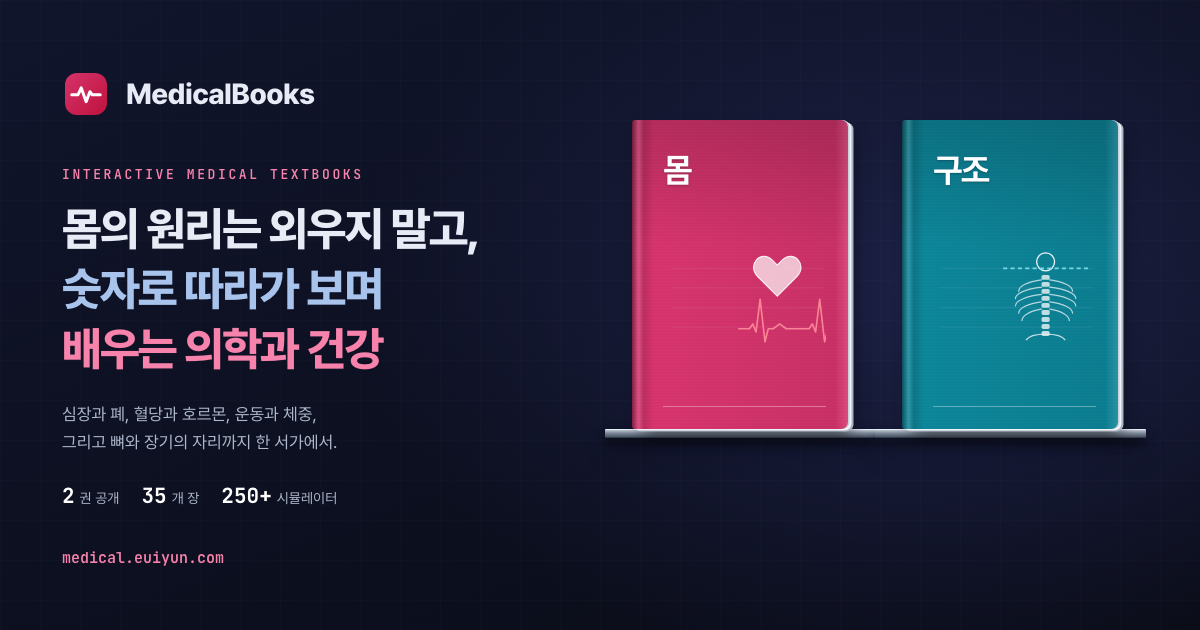
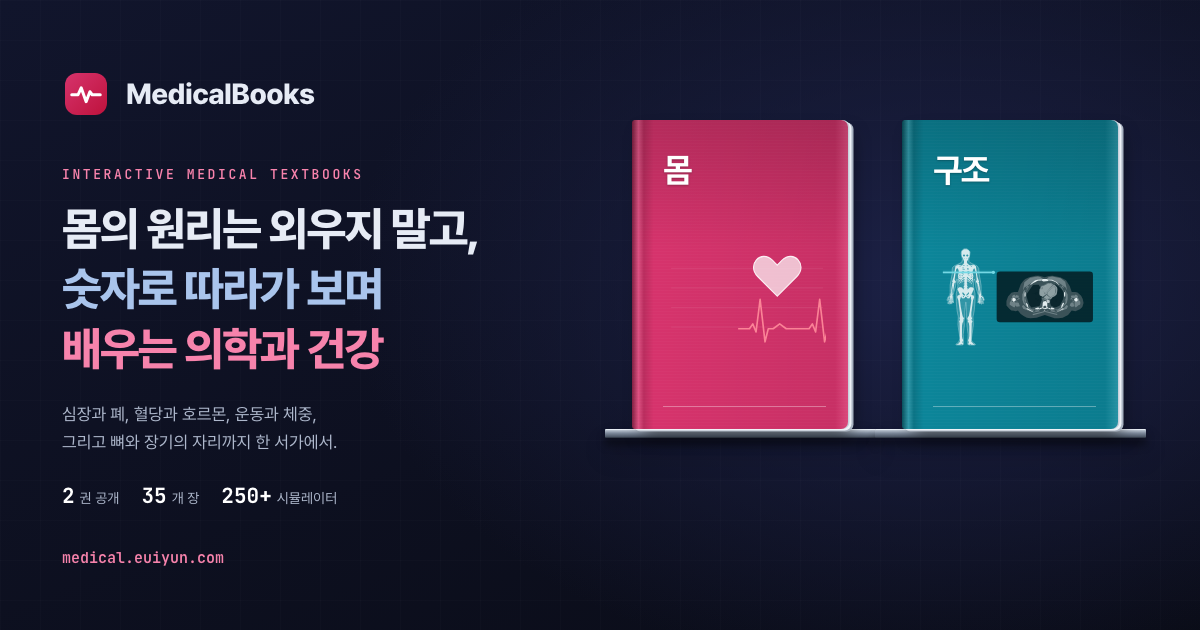
AnatomyBook: an X-ray figure and a CT scan on the cover
The skeleton cover was a spine with a few ribs and read as a fish bone.
It now draws a front-view person from the book's BodyParts3D data: the
skin outline and the skeleton, with eye sockets cut into the skull. A
scan line stops at six heights (brain, heart and lungs, liver and
kidneys, pelvis, thigh, calf) and the CT panel beside it shows the real
axial section at that height in CT grays, as in the CT viewer
experiment. One loop takes 12 s; the still frame is the chest.

- tools/anatomy-cover.mjs simplifies the outlines and sections onto a
  0.5-unit grid and rewrites the ANATOMY line in shared/js/covers.js
  (12.8 KB).
- .an-scan and .an-slice share one clock in cover-animations.css;
  .cv-section, used only by the old cover, is gone.
- og.png regenerated; README and LICENSE note the tool and the data.

Changed region(s): [[0.7708, 0.3921, 0.925, 0.5429]]

diff --git a/shared/js/covers.js b/shared/js/covers.js
@@ -725,15 +725,23 @@
       s += `<path class="cv-hit" d="M140 64 116 40c-14-14 4-34 18-20l6 6 6-6c14-14 32 6 18 20Z" fill="${W}" fill-opacity=".75" stroke="${W}" stroke-width="1.4"/>`;
       return svg(s);
     },
-    // 척주와 갈비뼈, 가로로 지나가는 단면선이 위아래로 훑는다
+    // 엑스선으로 본 사람(앞모습)과 CT 화면(AnatomyBook). 가로 단면선이 머리·가슴·배·골반·허벅지·종아리 여섯 높이에 차례로 머물고,
+    // 오른쪽 화면에는 그 높이의 실제 가로 단면이 CT 밝기로 뜬다(몸의 오른쪽이 화면 왼쪽, 앞이 위). 멈춰 있을 때는 가슴(심장과 폐)이고,
+    // 움직임도 가슴에서 시작한다(--k: 가슴에서 몇 칸째인가, 시간은 css의 .an-*가 정한다).
+    // 몸·뼈·단면 좌표는 tools/anatomy-cover.mjs가 BodyParts3D(© DBCLS, CC BY 4.0)에서 만든 ANATOMY(이 파일 맨 아래)다.
     skeleton() {
-      let s = "";
-      range(4).forEach((k) => { s += `<path d="M10 ${30 + k * 24}H196" stroke="${W}" stroke-opacity=".1"/>`; });
-      s += `<circle cx="138" cy="22" r="11" fill="none" stroke="${W}" stroke-width="1.6"/>`;
-      range(9).forEach((k) => { const y = 38 + k * 8.6; s += `<rect x="133" y="${y}" width="10" height="6" rx="2" fill="${W}" fill-opacity=".8"/>`; });
-      range(5).forEach((k) => { const y = 44 + k * 9, w = 34 - Math.abs(k - 1.5) * 4; s += `<path d="M133 ${y}c-${w * 0.6} 2-${w} 8-${w} 14M143 ${y}c${w * 0.6} 2 ${w} 8 ${w} 14" fill="none" stroke="${W}" stroke-opacity=".75" stroke-width="1.5" stroke-linecap="round"/>`; });
-      s += `<path d="M114 118c6-10 42-10 48 0" fill="none" stroke="${W}" stroke-opacity=".8" stroke-width="1.6"/>`;
-      s += `<g class="cv-section" style="--dy:76px"><path d="M86 30H190" stroke="#7ee0ec" stroke-width="2" stroke-dasharray="5 4"/></g>`;
+      const A = ANATOMY, rest = 1, [px, py, pw, ph] = A.panel, y = A.slices[rest].y, scan = "#7ee0ec";
+      const ct = (v) => "#" + [3, 24, 30].map((c) => Math.round(c + (255 - c) * v).toString(16).padStart(2, "0")).join(""); // 검은 화면 → 흰 뼈
+      let s = `<rect x="${px}" y="${py}" width="${pw}" height="${ph}" rx="4" fill="${ct(0)}" fill-opacity=".9"/>`;
+      s += `<g transform="scale(${A.q})"><path d="${A.skin}" fill="${W}" fill-opacity=".16" stroke="${W}" stroke-opacity=".55" stroke-width="${0.7 / A.q}"/><path d="${A.bones}" fill="${W}" fill-opacity=".88"/>`;
+      A.slices.forEach((sl, k) => {
+        s += `<g class="an-slice" style="--k:${k - rest}"${k === rest ? "" : ' opacity="0"'}>`;
+        s += sl.layers.map(([v, d]) => `<path d="${d}" fill="${ct(v)}" fill-rule="evenodd"/>`).join("") + "</g>";
+      });
+      s += "</g>";
+      const to = A.slices.map((sl, k) => `;--y${k}:${(sl.y - y).toFixed(1)}px`).join("");
+      s += `<g class="an-scan" style="--k:${-rest}${to}"><path d="M${A.fig[0] - 5} ${y}H${px - 4}" stroke="${scan}" stroke-opacity=".3" stroke-width="4"/>`;
+      s += `<path d="M${A.fig[0] - 5} ${y}H${px - 4}" stroke="${scan}" stroke-width="1.3"/><circle cx="${px - 4}" cy="${y}" r="2" fill="${scan}"/></g>`;
       return svg(s);
     },
     // 오선과 음표, 아래에서 스펙트럼 막대가 출렁인다
@@ -1279,6 +1287,10 @@
     },
   };
   Object.assign(M, CONSTRUCTION);
+
+  // skeleton 표지의 몸·뼈·CT 단면 좌표. node tools/anatomy-cover.mjs가 이 줄을 다시 쓴다(직접 고치지 않음).
+  // Data: BodyParts3D, © The Database Center for Life Science, CC BY 4.0.
+  const ANATOMY = {"q":0.5,"fig":[17.1,62.9],"panel":[78,34,118,62],"skin":"M34 138l3-8 4-5 1-6 0-18 5-28 0-11 1-4 4-4 15-7 4-3 1-6-3-15 1-5 2-3 4-3 7 0 5 4 3 4-1 7-2 11 0 5 2 2 5 3 13 6 4 6 1 13 5 29 0 16 1 7 4 5 3 8-2 1-2-3 2 10-1 1-2-1-2-6 0 8-2-1-1-6-1 4 0 2-2-1-1-6-1 5-1-1 1-18-6-20-1-13-3-7-2 17 4 19 0 19-2 23-3 15 1 20-5 35 1 4 4 5 4 2 1 2-2 1-13 0-4-2 1-24-3-24 1-9-2-9 0-14-1-23-1 0-2 23 0 13-2 10 1 10-3 23 1 24-1 1-3 1-13 0-2-1 1-2 4-2 3-5 2-7-5-33 1-19-3-15-2-23 0-19 4-19-2-17-2 7-2 12-6 21 1 18-1 1-1-5-1 6-2 1 0-2-1-4-1 6-2 1 0-8-2 6-2 1-1-1 2-10-3 3z","bones":"M70 26l0-7 2-3 4-3 7 0 5 3 2 3 0 7-1 6-2 2-1 5-1 2-3 1-4 0-3-1-2-7-2-2zM76 36l2 2 4 0 3-4-2 2zM72 117l0-5 1-2 3 2 0-2-3-3 3 1 1-2-3-2 2 0 1-2-2-1 0-1 2 0 0-3-3 0 3-1 0-2-2-1 2-1 0-6-1-1 2-1-1-2-1 0 1-4-2-1 3-1-1-2-1 0 0-1 2-1-1-2-2 0 2-1 1-2-3-1 0-2 3 0 0-1-3-2 3-1-3-3 3 0-2-2 0-1 2 0-1-1-2-1 2-2-2-1 1-3 0-6 1-3 1-1-4-1 4-1 5 0 3 2-4 0 2 4-1 5 2 4-2 2 2 0 0 1-3 2 2 0 0 1-2 2 2 0 1 1-2 1-1 1 3 1 0 1-3 1 0 1 3 0 0 2-2 0-1 2 3 1 0 1-2 0-1 2 2 1 0 1-1 0-1 2 3 1-2 1 1 4-1 1 1 2-1 0 0 7 2 0 0 1-2 1 0 2 2 1-2 1 0 2 2 0 0 1-2 1 1 2 2 0-3 2 1 2 3-1-3 3 0 2 2-2 1 1 1 5-4 7-3 2 1 2-2 3-2-3 1-2zM61 80l2-11 2-9 4-6 6-5 3 1 0 1-2 0 2 1 0 1-5 0 0 1 4 0 3 2 2-1 0-1 4 0 0-1-4 0 0-1 2-1-2 0 0-1 3-1 8 6 4 13 2 12-1 3 0 4-2 10 0-4-13-13-2-3-1 0-1-1-2 4-13 13 0 4-1-2-1-12zM97 81l0-2-1 1zM97 84l-1 1 1 1zM97 75l0-2-1 1zM94 86l-2 0 4 5 1-1-2 0 1-3zM96 68l-1-1-1 1 2 2zM92 76l2 1 2 0-2-2zM91 70l3 2 1-1-2-2zM92 81l2 2 1-1-1-2zM90 66l2 1 2-1-2-1zM93 60l0-2-1 1zM91 60l-2 2 2 0 2-1zM88 76l-4-3 3 4 4 1zM83 70l4 4 4 0zM88 57l2 1 1-1-2-1zM83 67l3 2 4-1-3-1zM84 63l-1 0 2 1 4 0-3-1zM84 59l-1 1 2 1 4-2-3 0zM82 56l1 1 3-1zM74 56l2 1 2-1zM71 64l7 0 0-1-4 0zM70 68l4 1 3-2-4 0zM73 71l-4 3 6-2 2-2zM71 59l3 1 3 0-3-2zM69 78l3 0 5-5zM69 83l3-1 1-2zM69 57l1 1 2-1-1-1zM66 66l2 1 2-1-2-1zM69 62l1 0-1-2-2 1zM65 71l1 1 3-2-2-1zM65 90l-2-1 1 2 4-5-3 0-1 1zM64 77l2 1 2-2-2-1zM67 60l1-1-1-1zM65 82l1 1 2-2-2-1zM63 86l1-1-1-1zM63 79l0 2 1-1zM82 85l1-2 1 1 5 4 5 7 1 3-1 1-2-5zM82 88l6 4 4 6-5-5-4-3zM65 98l1-3 4-7 7-5 1 2-6 4-6 8 0 2zM68 98l4-6 6-4-1 2-4 3zM36 138l2-7 5-4-1-1 2-7 3-21 0-2 3 0-2-1-1-3 4-12 4-26 2 0 1-2 2 1 0-1 1-1 5 1 5 2 7 0 1 2-1 2-7-2 1 3 0 6-2 5-3 5-2-2-3-10-2-3-1 0-2 2-2 11-2 15 3 5-1 2-2 0-1 4-4 26-1 2 1 1 0 1 1 8 1 7-2-3-1-10-1 15-1-1 0-14-3 17-1-2 2-15-2 8-3 7-1 0 1-1 4-15-3 2-2 5-1 2zM61 53l4 1 1 2 2-1-1-1zM46 125l2-6 1-17-3 15zM81 56l1-2 7 0 8-3 3 0-1 2 1-1 2 0 1 2 2 0 4 27 4 12-1 2-2 1 3 0 0 3 5 27-1 0 6 5 2 7-2-1-3-6-2-1 0 2 5 14-4-7-2-8 1 17-2-9-1-8 0 15-1-1-1-2 0-12-2 12-1 1 1-7 2-8-1-1 1-1-1-2-3-26-2-4-2-2 2-5-2-17-3-10-1-1-2 2-4 11-2 2-2-3-2-6-1-7 1-3-4 0-3 2zM114 125l0-9-2-14 0 16zM94 54l-2 0 2 2 2-2 3-1zM80 128l1-1 3-1 4-4 0-3-2 0 0-3-1-2 3-6 3-2 3 0 4 1 2 3 0 1-5 11-4 6-1 5-5 1-3-3zM84 129l0 1 2 1 1-4zM60 111l2-3 2-2 5 0 3 2 3 6-1 2 0 3-2 0 0 3 3 4 5 1-1 3-2 3-4 1-3-2-1-4-4-6zM73 128l1 3 2-1-1-2-2-1zM57 247l5-2 4-5-1-47-1-3 2-4-1-3 1-5 0-9-4-31-3-8 2-4 3 0 2-3 2 0 3 1 0 2-3 5-1 4-1 2 2 17 4 20 1 4 3 4-1 3-1 2 1 1-3 7-1 7 0 25 1 5 2 4-2 5 2 4-1 1-1 1-2-1-1-1-1 1-1 1zM84 182l4-6 2-10 4-29-1-1 0-5-4-5 1-2 3-1 1 1 2 2 3 0 2 4-3 9-4 30 0 9 2 5-2 3 3 4-2 4-1 42 0 4 5 5 4 2-9 0-2-1 0-1-2 2-4-1 1-3 1-2-2-5 2-4 1-6 0-24-1-7-3-6 2-2-2-1zM78 27l-1-1-2 0-1 1-1 2 1 1 1 1 2 0 1-1 1-1zM86 27l-1-1-2 0-1 1-1 2 1 1 1 1 2 0 1-1 1-1z","slices":[{"z":1560,"y":11.6,"layers":[[0.24,"M260 96l-6 6-3 5-7 26-1 11 3 11 7 12 7 5 10 3 18-2 6-4 5-8 4-6 2-11-2-16-6-21-6-9-9-4-15-1z"],[0.96,"M264 97l-4 1-3 3-6 10 0 4-5 12-2 15 3 12 4 7 5 6 3 3 2-1-1 2 14 1 13-1 1 0 0-1 1 1 2-2 7-9 5-15 1-4-1-6-5-19 0-6-8-10-4-3-8-2zM261 169l-7-7-4-7-4-9-1-10 4-14 2-5 2-1 0-6 2-4 5-5 7-4 4 0 3 2 4-2 5 1 6 3 7 8-1 6 1 2 1-1 0 1 2 5 1 6 3 7 0 5-2 8-3 8-4 6-6 7-4 1-14 0-7 1-1-1-1 0 1 0-1-1 0 1z"],[0.5,"M265 103l6-2 1 1-2 3 2 2-4 1 2-3 0-2-6 8-1 4-2 0-2-5 3-1-3 0 0-3 1 0-4 1-2 5-1 9 3 1 4-3-3 3 0 4 1 8 2 3 1-15 2-2-1-2 4 1 5-5-3-2 1-4 0 2 4-1-1-9-4-1zM257 113l2 4-2-2-1 1 1-6zM269 110l3 5 0-5zM271 122l1 4 2-7-6-3zM266 122l1 5-5 10-1-4-1 6-5-10-3-1 1 2-2 3 1 4-2 1 2 2-2 2 7 2 1 2-5 2 6 3-10-2 0 2 9 13 4 2 0-3 1 2 5 0-1 2 1 2 6-4-1-16-9 2-2-3 0-4 5-13 3-3-4-10zM257 154l0 2 2 0-1 5 2 2-2-2 0-4-4-2 2-2-3-1 6 0zM261 157l4 4 2-2 2 2-1-1-3 3zM272 157l-3 3-4-3 1-2 2 3zM275 134l0-4-2 0 0 3zM264 142l1 3 2 0 3-3 0-3zM276 100l0 15 4-6-2 5 2 0 2 5-4 8 4 4 4 13-2 6-9-1 0 17 5 3 3-1-1-2 3-1 1-3 1 4 5-4 8-12-11 1 6-4-4-1 0-2 7-2-2-2 2-1-3-9 1-2-3 0-4 10-2 0 0-3 1 2 2-1 2-6-1-8-3-3 6 3 2-2-4-13-4-1 1 3-3 0 3 1-2 5-2 0 0-4-5-7-2-2 0 3-2-3 4-1 3 2-2-4zM286 136l-4-13 0-4 4-2 1 0-2 3 3 6-1 8 0-2zM291 113l0-3 1 6-1-1-2 2zM280 107l-4 0 2-2zM281 158l-1 1 2 2-3-1-2-3zM289 159l0-3 2-2-2-3 8 1-5 1 2 2-5 2 2 4zM275 119l1 7 4-10zM278 141l4 4 2-1-3-5-3 0z"],[0.34,"M279 116l-4 3 0 7 5-10zM268 116l5 10 1-6-3-4zM273 130l0 4 2 0 0-4zM271 139l-4 0-3 3 1 3 5-3zM278 139l1 4 4 2 1-3-3-3z"]]},{"z":1220,"y":34.9,"layers":[[0.24,"M180 140l0 11 7 8 5 4 6 1 5 1 5-2 7 9 7 5 8 4 9 1 15-1 20-7 24 8 10 0 10-1 13-7 9-11 9 2 11-5 6-5 3-10-2-10-4-8-9-8-5-1-9 0-5-15-9-14-14-7-19-4-9 1-10 3-14-4-9 0-15 4-10 4-5 5-6 8-7 19-9 0-7 2-8 9z"],[0.03,"M300 99l-4 4-8 29-1 12 2 7 9 5 5-1 8-4 8-16 1-6 0-8-3-8-10-10zM253 100l-8 1-15 21-1 5 4 15 3 7 5 7 20-4 9-24 0-3-7-18-4-7z"],[0.46,"M237 102l-5 6-5 12zM228 106l0 3 6-6-2-1zM231 107l-6 12 6-11 9-9zM220 115l4-8 23-15 13-2-10 3 12-3 8 2-8-3 10-1-8-6-7-2-19 3-14 11zM194 128l0 4-4 3 2 2-4 7 0 5 11 7 2-2 2-9-2-3-8 0 3-8-1-2 15 0 0-5-7-2 0 4-4-5zM204 138l4-1 2-4zM229 145l-3-16 0 11zM224 139l3 6-3-16zM201 140l7 1-3-2zM219 124l0 13 3 9 14 15-1 2-4-3-9-10-4 2 3 7 25 9 16-3-3-3-10 2 3 1-6 2-1-2 3-1-1-1-4 0 9-3-9 1-11-6-6-8-3-9 3-25-4 2zM205 154l8-1-3-9-5-1-2 2-1 6zM277 88l10 1-8 3 8-2 11 3-9-3 7 1 15 6 14 10 4 8-5-22-11-9-21-4-9 2zM278 163l3 1 3-2zM287 165l16 3 25-9 3-7-4-2-9 10-4 3-1-2 15-16 2-10 0-11-5-10-2-1 3 21-2 11-8 11 2-3-13 8-8-1 9 3-5 1 3 1-1 2-6-2 3-1-10-2zM270 166l-26 6 1 3 29-8 0-3-3 0zM278 165l-4-1 1 3 29 7 1-2zM311 102l11 18-6-14zM315 103l5 6 0-4-3-3zM345 129l0-3-7 1 1 5 8 1 8-1 0-4-5-4-5 4 1 3zM358 134l-5 0 3 8-2-2-7 2 0 11 3 3 8-7 2 1 1-4 0-4-5-6 2 2zM325 137l-1-7-1 11zM341 134l-2-1 1 3 5 2zM343 139l-2 1 2 2 5-1zM339 154l5 0 2-2-2-9-6 1-1 2-2 5z"],[0.96,"M251 89l1 1-1-1-3 2-6 5-4 5 1 0 8-6 6-2-1-2 1 1 5-2 7 0 1-1 2 2 3 1 11-1 1-2-1 0 1 0 8 1 10 4 8 7 1 0-6-7-12-6-9 0-5-2-8 0-3 1-1 1-1-1-9 1zM224 125l1 6 2-3 0-8-1-2-1 1zM194 138l3 4 5-2 1-4-1-2-5-2-2 2zM271 141l-2 3-1 12-6 1-2 2 0 1 1 1 7-3 6 2 8-2 5 3 2-1-3-3-3 0-3-2 0-11-2-2-2-2zM278 154l0 2-4 2-3-1-1-3 2-2 3-1zM227 145l3 8 4 4-2-9-4-4-1 0zM257 156l-6 2-1 2 8 1 2-2-1-3zM229 158l2 3 14 6 1 0-16-10zM273 162l1 3 1-3zM321 119l0 7 2 5 1-3 0-8-1-2zM351 132l-5 3 0 3 3 3 3 0 2-1 1-2-1-4zM318 145l-3 6-1 5 1 1 3-4 3-7 0-2zM288 158l2 3 8-1-1-2-6-2-1 0zM311 163l-8 4 15-6 2-1-1-3z"],[0.56,"M281 96l-13 7 0-1-1 0-6 9-1 10 1 4 2 2 6 0-3 5 1 0 4-5 9-4 1-5 16-13 2 1 2 4 0 5-1 5-5 6-6 3-2 3 0 3-19-1-2 0 0 2 23 0 3-4-1 0 8-4 4-4 1-4 1-9-1-5-3-3-2-2-3 0-7-5zM266 110l2-1 3-7 9-5 7 0 6 4 0 1-20 18 2 2-2 3-4 1-6 0-2-3 1-12 3-3z"],[0.6,"M282 97l-12 6-3 9-1-4-2 1-2 3-1 10 3 6 5 1 3-1 3-4-5-9 3 5 3-1 17-18-4-3zM296 105l-15 13-1 6 7 7 9-5 4-6 1-11-2-3zM278 125l-6 6 1 2 5 2 10-1-1-2-8-7z"],[0.8,"M210 134l-1 2 2 0 1-2zM338 134l-1 2 2 0 1-2zM279 136l-1 2 1 6 2 1 4 0 1-3 0-3z"],[0.7,"M270 139l-1 1 1 2 2-2z"],[0.02,"M253 118l1 3 2 1 0-4zM252 120l-9 3 7-1 3 2 1-1zM251 134l1 2 3 0-1-2zM255 138l2 2 2-1-1-3zM256 140l2-2-1-1 2 0-1 3zM307 121l2 1 1-2-2-1zM302 136l-1 2 2 0 2-1-2-2zM300 140l2 2 1-1 0-2z"],[0.45,"M275 134l-4 2 4 2 3 0 0-2z"]]},{"z":1060,"y":45.9,"layers":[[0.24,"M217 110l-2 12 3 10 5 12 7 12 7 7 6 4 6 2 13 0 14-4 8 4 12 0 11-3 9-7 8-12 9-24-2-12-12-17-16-10-12-5-18 1-14-1-11 3-17 10zM353 124l-5 3-4 5-2 6-1 6 2 6 5 6 6 3 6 0 5-1 5-5 7-9 1-4-4-9-5-6-7-2zM170 139l1 5 7 9 4 4 6 2 7 0 5-2 4-4 3-8 0-6-4-8-5-6-5-1-10 0-4 2-5 5z"],[0.46,"M233 97l-7 17 12-22zM253 81l-18 10-7 6-4 9-3 20 1 7 5 6-4-15 3-17 5-9 10-10 14-6 9-1 7 3-3-4zM230 110l-3 18 5 16-4-2 10 7-6-4 16 7 7-1 2-2-8 2-13-6-7-13 0-17 6-11 11-12-11 9zM225 121l0 10 3 6-1-17-1 4zM187 132l5 0-3-2zM183 134l4 4 10-3-1-3-13 0zM175 134l2 9 5 2-4-5 5-3-1-6-4-1zM193 142l-7 3 7 2-6-1 3 4 7-1 4-5-1-4zM281 124l1 7 4 6 1-6zM263 140l7-14-9 6zM259 153l-2 4 5 2-15 1-7-11 7 13 11 1 17-5 20 5 9-2 5-12-8 11-14-1 4-2-3-5 1-2-8 2-2 3 2 3-5-2-8 2 1-3-1-3-8-2-1 1 2 1zM316 98l6 16-4-13-7-9zM280 81l-2 3 11-3 13 4 16 14 7 15 0 16-3 9 5-5 1-9-3-19-5-9-24-16zM318 109l3 14-1 7-7 13-7 6-7 3-5-1 8 3-2-1 14-9 8-20-5-20-11-13zM322 126l-1 11 2-4 1-12-1 3-1-5zM359 132l-6 0-1 4 11 2 3-6-5 0 0-2-4 1 0 1zM367 130l-1 7 6 3-5 5 5-2 2-8-3-5zM317 146l3-4-5 3 4-3-12 7zM353 147l-3 0 2 2 4 2 5-5-6 1 8-2-14-5-2 5z"],[0.96,"M225 115l-1 5 1 2 2-2 2-6-3-2zM227 139l3 5 2 2-2-8-3-3zM190 138l-1-1-4 3-3-1-2 4 5 2 3-1 1-3 2-1 4 2 5-1 1-1 0-1-6-3zM268 144l0 3-2 0 2 0 2-4-1-1zM270 147l2 5 1 5 2 0 1-5 3-5-1-3-4 3-3-3zM257 150l-5 2 1 1 3 0 2-1 0-1zM240 151l5 4-1-3-5-3zM322 112l-2 2 2 6 2 2 0-7zM272 124l-4 4-2 3 2 7 2 2 1-2 4-1 4 3 3-7-1-5-6-4zM321 135l-5 9 0 2 6-7zM353 136l-6 3 1 2 5 1 4-2 4 4 3 1 5-3-2-3-4 0-2-1-4 0zM278 142l2 5 2 1-2-1 0-3-1-2zM307 149l-4 6 1 0 4-4 1-2zM291 153l4 1 2-2-6-2z"],[0.8,"M277 117l-3 3 0 3 3 1 3-1 2-2-2-3z"],[0.7,"M270 116l-3 2-1 2 1 2 2 2 3-1 1-3-1-3z"],[0.56,"M253 93l-7 2-7 6-6 10-2 8 1 8 4 10 4 5 3 0 2-9-2-6-1-18 3-3-1-1 2 0 3-6 6-5z"],[0.36,"M255 95l-5 4 0 7 2 3 3-2 4-8 0-3z"],[0.47,"M291 89l-13 2-7 2-8 12 3 4 3 0 3-4 11 2 11 6 11-3 3-5-2-6-7-7-3-2z"],[0.55,"M314 110l-1 1 0 10-6 7 4 12 7-7 1-5 0-6z"],[0.5,"M274 109l-8 4-4 6 13-3 3 1 10 7 7 2 4 0 0-2-7-3-9-9z"],[0.58,"M259 126l-6 1-5 4-2 3 1 3 5 0 6-4 3-5zM296 129l-8 3 0 2 2 4 4 3 6 1 4 0 3-2 2-4-3-4-4-3z"],[0.5,"M261 126l-3 0 1 6 3-3z"],[0.48,"M264 104l-13 13 0 3 4 3 4-1 10-13z"],[0.42,"M300 114l-1 5 4 4 3-3 0-3-3-3zM307 121l-3 3 4-1z"]]},{"z":880,"y":58.2,"layers":[[0.24,"M164 128l4 8 4 4 5 1 5 0 5-2 4-5 1-4-1-5-4-7-8-3-5 0-6 3-4 5zM369 115l-5 1-4 3-4 11 2 5 3 3 4 3 6 0 9-5 4-5 0-6-1-4-4-4-5-2zM228 98l-7 4-6 8-4 11 0 9 5 13 9 17 7 8 11 6 14 2 14-4 6 0 11 4 6 1 12-3 9-5 7-7 8-13 6-14 2-10-3-11-7-11-8-6-22-4-16-5-9 0z"],[0.46,"M176 118l-2 4 3 0 0 3 8 0 0-3-7-2 2-1 5 3 1-3-7-1 3-2-3 0-3 0 2 2zM215 126l8-13-6 2zM186 129l4-3-2-4zM180 127l0 3 3 0zM173 133l1 2 4-1-2-2 3-2-7 0zM181 131l1 3 3-1 0-4zM264 90l-30 11-8 6 9-6 27-9 10 3zM281 91l-4 3 11-2 34 15-6-5-29-12zM318 116l-8 5-5 15 7-4 13-17-3-2 1 2zM226 117l1-4-3 1zM238 133l6 2-1-5 2 5 5-1-3-11-5-1 0 5-5-8-11-4zM299 130l4 6 4-14-6 1zM317 132l-14 15 11 0-11 0-4 10 10 1 8-1 15-15 0-10-13-5zM222 129l-1 3-5 0-1 5 7 12 7 6 8 3 12-1-4-10-10 0 11 0-14-14-2-6zM245 168l14-4 3 3 6 2 4-7-4-1-2 1 4 1-3 2-3-1-4-1 1-3-3-2-4 4-10 1-17-9 3 6zM299 163l-8-5-3 2 1 3-4 1-6-1 3-1-2-1-3 2 5 6 6-2 1-4 14 5 15-8 4-6zM369 118l-6 2 2 2-1 3 10-2 0-3-4-2 2-2-5 0zM333 125l-1-10-6-2zM359 126l2 3 2 0-3-2 1-5zM372 125l6 2-4-4zM369 130l0-3-2 0-2 3zM376 130l-6 0 3 3-3 1 6 0-1-1 5-4zM364 133l4 0 0-2-5-2z"],[0.96,"M182 125l0 3 2 2 1-1 1-2-1-2zM363 127l2 3 2-2 0-2-3-1zM372 127l2 2 2 1 3-2-3-2zM170 127l1 2 1 1 4-3-4-1zM223 115l7 18 11 9 12 16 3 0 1-5 2 6 1 1 5-2 2-3 2 1 1 5 4 2 4-1 1-1 0-5 2 0 3 3 4 1 1 0 1-3 1-6 0-4 6-5-1-4-5 4-4 2-2 4-1 1-4 0-2-3-3-1-5 0-2 4-3 0-1 0-2-5-5-3-4-3-2 1 0 2 0-3-9-1-4-3-5-5-6-12-1-2zM257 149l-5-6 5 4zM323 115l-7 13-4 5-3 3-10 2-2 5-4 7 0 7 0 2 4-1 12-17 10-9 6-17z"],[0.48,"M278 97l-13 0-2 2 1 5-11-3-2 3 4 5 8-1 1-3 2 2 22-2 3-2 6 6 6 1 2 2 5-2-2-4-4 0-2-3-13-5-9 0zM278 106l0 3 2 1 2-3zM244 116l6 0 0-5-2-1-3 1z"],[0.42,"M314 114l-12-4-7 3-1 3 5 10 3 3 9 0 7-6-1-7zM244 111l1 6 5-1 0-5-3-1zM241 115l-7-3-6 4 1 6 4 6 4 0 6-4 0-4 2 0z"]]},{"z":620,"y":76.1,"layers":[[0.24,"M221 98l-5 5-4 6-3 11 3 13 8 18 5 6 10 6 11 2 11-4 7-6 6-11 2-10-3-10-9-14-8-8-9-4-8-2-7 0zM311 97l-12 3-8 6-12 19-2 5 0 11 5 10 9 10 8 3 15-1 11-8 7-11 7-19-1-13-3-5-5-6-8-5z"],[0.46,"M223 107l-5 2-6 13 1 10 4 4 11 6-1 4 2 4 7 7 12 1 2-8 3 6 7-2 2-5-4-3 9-2 1-8-18 4 1 7 2 0-2 2-2-7-8-4-8 2 2-8-5 0-4-3 3 1 0-2 6-5 2-4 1 13 7-5-10 7 20 4 13-3-1-3 3-2-3-6-3-4-7 2 1-4-2-1-5-1-7 4 2-7-9-3 1-2zM223 117l14-6 0 5-5-2-10 5-1-3zM247 113l9 0-11-3zM315 106l-4 2 0 2-2-1-6 4 0-3-10 2 10 1 1 7-5-4-6 1-2 1 0 4-6-2-3 3-3 7 3 6-2 3 2 6 11 1-7 1 4 8 6 1 3-4-2-5 2-6-16-5 9 2 18-2 4-2-11-7 8 5 1-12 1 4 7 4 0 2 6-6-8 8-4 0 1 7-11 0-4 3-2 5 1 9 4 2 8-1 9-7 2-5-2-3 12-6 5-6 0-8-7-13-5-3zM312 117l-1-6 11 4-6-1z"],[0.96,"M313 124l-3 2 0 4 1 2 4 2 5-4 0-4-2-2zM236 123l-5 1-2 2 0 4 4 4 2 0 4-4 0-3z"],[0.8,"M291 114l-2 2 3 2 2-2-1-2zM258 114l-3 1 0 2 3 1 1-3z"],[0.7,"M257 118l-2 1 1 3 3-1zM291 118l-1 3 3 1 1-3z"]]},{"z":300,"y":98.1,"layers":[[0.24,"M237 117l-8 4-5 5-4 11-1 12 2 7 5 7 8 5 8 2 8-2 7-6 7-13 1-9-3-7-12-11-6-4zM305 117l-5 3-14 13-2 5 0 6 2 10 6 9 6 5 9 2 9-3 9-8 4-7 0-8-1-9-6-11-6-5z"],[0.46,"M249 127l-2 11-5-4-1 2-4-1 0 3 4-1-2 8-10-1 2-3-3-4-2 1-1 4 2 5 2-1-1 4 5 11 8 0 7-1 1-3 6 1 8-6-3-14-4-5-5 6-3 13-2-5-3 1 4-9 3-2zM230 132l2 8 2-1-2-6 5-1 0-9-3 0zM301 126l-4 6 2-1 0 6 3 2 0 5 5 6-4-4 0 3-2 3-2-12-6-7-2 2-4 9-1 7 2 5 7 3 4-2 4 3 12 1 3-4 2-11 2 1 2-5-3-5-3 4 1 3-9 1-3-8 4 1 0-3-4 1 0-2-4 4 0-5-4-2zM311 132l5 1-1 6 1 1 4-8-5-8-4-1z"],[0.96,"M302 126l-3 4 2 4 2 2 6 0 2-4 2-7-1-3-4-1zM237 122l-1 2 1 8 2 2 3 2 7-2 1-2-2-6-7-5zM232 140l-1 3 2 1 2 0 0-4-2-1zM315 139l-2 3 1 2 1 1 3-1-1-4z"]]}]};
 
   window.coverArt = (motif) => (M[motif] || M.grid)();
 })();

diff --git a/shared/css/cover-animations.css b/shared/css/cover-animations.css
@@ -19,8 +19,6 @@
 .cv-wave { transform-box: fill-box; transform-origin: left center; animation: cv-wave 1.5s ease-out infinite; }
 @keyframes cv-wave { from { opacity: 0; transform: scale(.6); } 40% { opacity: 1; } to { opacity: 0; transform: scale(1.2); } }
 .cv-slide { animation: cv-slide 1.2s linear infinite; }
-.cv-section { animation: cv-section 3.2s ease-in-out infinite alternate; }
-@keyframes cv-section { to { transform: translateY(var(--dy)); } }
 .cv-shear { animation: cv-shear 2.8s ease-in-out infinite alternate; }
 @keyframes cv-shear { to { transform: skewX(-28deg) scaleY(1.15); } }
 @keyframes cv-slide { to { transform: translateX(var(--dx)); } }
@@ -133,6 +131,14 @@
 @keyframes bs-ring { 0% { opacity: .85; transform: none; } 70% { opacity: .3; transform: scaleY(.4); } 100% { opacity: 0; transform: scaleY(.15); } }
 .bs-beat { animation: bs-beat 2.4s ease-out infinite; }
 @keyframes bs-beat { 0% { opacity: 1; } 22%, 100% { opacity: .35; } }
+
+/* skeleton (AnatomyBook): one 12 s scan from head to calf. The line rests 1.4 s at each of six heights (--y0…--y5) and moves in 0.6 s;
+   each CT slice runs the same clock shifted 2 s per height, so it shows only while the line rests there. --k (steps from the chest) starts both at the chest. */
+.an-scan { animation: an-scan 12s ease-in-out infinite; }
+@keyframes an-scan { 0%, 11.7% { transform: translateY(var(--y0)); } 16.7%, 28.3% { transform: translateY(var(--y1)); } 33.3%, 45% { transform: translateY(var(--y2)); } 50%, 61.7% { transform: translateY(var(--y3)); } 66.7%, 78.3% { transform: translateY(var(--y4)); } 83.3%, 95% { transform: translateY(var(--y5)); } 100% { transform: translateY(var(--y0)); } }
+.an-slice { animation: an-slice 12s linear infinite; }
+@keyframes an-slice { 0%, 11.7%, 100% { opacity: 1; } 14.2%, 97.5% { opacity: 0; } }
+.an-scan, .an-slice { animation-delay: calc(var(--k) * 2s - 12s); }
 
 @media (prefers-reduced-motion: reduce) { .cover-art * { animation: none !important; } .cover-art { transition: none; } }
 /* SciBook covers (science-books), MIT: the same cv- motions renamed sc- so they do not collide with the cv- set above. */

diff --git a/LICENSE.md b/LICENSE.md
@@ -2,4 +2,4 @@
 
 실행 코드는 [MIT](LICENSE-MIT), 본문·그림·문제·해설 등 교육 콘텐츠는 [CC BY 4.0](LICENSE-CC-BY-4.0)입니다.
 
-BodyBook(`body/`)은 geniuskey/bodybook에서 가져왔으며 원본의 저작권과 라이선스를 폴더에 보존합니다. 3D 해부 모델과 그림의 출처·라이선스는 `body/assets/CREDITS.md`를 따릅니다. 서가 UI와 가져오기·빌드 도구는 geniuskey/money-books·geniuskey/math-books·geniuskey/semi-books의 MIT 코드를 바탕으로 합니다. SVG 표지와 애니메이션은 geniuskey/books의 MIT 코드에서 가져왔습니다. 홈 실습 이미지는 BodyBook의 화면으로 CC BY 4.0을 따르며, 3D 심장 화면은 BodyParts3D(© The Database Center for Life Science, CC BY 4.0) 모델을 씁니다.
+BodyBook(`body/`)은 geniuskey/bodybook에서 가져왔으며 원본의 저작권과 라이선스를 폴더에 보존합니다. 3D 해부 모델과 그림의 출처·라이선스는 `body/assets/CREDITS.md`를 따릅니다. 서가 UI와 가져오기·빌드 도구는 geniuskey/money-books·geniuskey/math-books·geniuskey/semi-books의 MIT 코드를 바탕으로 합니다. SVG 표지와 애니메이션은 geniuskey/books의 MIT 코드에서 가져왔습니다. 홈 실습 이미지는 BodyBook의 화면으로 CC BY 4.0을 따르며, 3D 심장 화면은 BodyParts3D(© The Database Center for Life Science, CC BY 4.0) 모델을 씁니다. AnatomyBook 표지의 몸·뼈 윤곽과 CT 단면도 같은 BodyParts3D 데이터에서 계산했습니다(`tools/anatomy-cover.mjs`).

diff --git a/README.md b/README.md
@@ -33,6 +33,7 @@ tools/check.py                        메타데이터·링크 정적 검사
 tools/factcheck.cjs                   각 책의 scripts/*.cjs 회귀 검사 실행
 tools/browser-check.cjs               데스크톱·모바일 브라우저 검사(Playwright)
 tools/og.mjs                          서가 공유 이미지 og.png 생성(Playwright)
+tools/anatomy-cover.mjs               AnatomyBook 표지의 몸·뼈·CT 단면 좌표를 anatomy/js 데이터에서 만들어 covers.js에 넣음
 ```
 
 ## 실행과 배포
